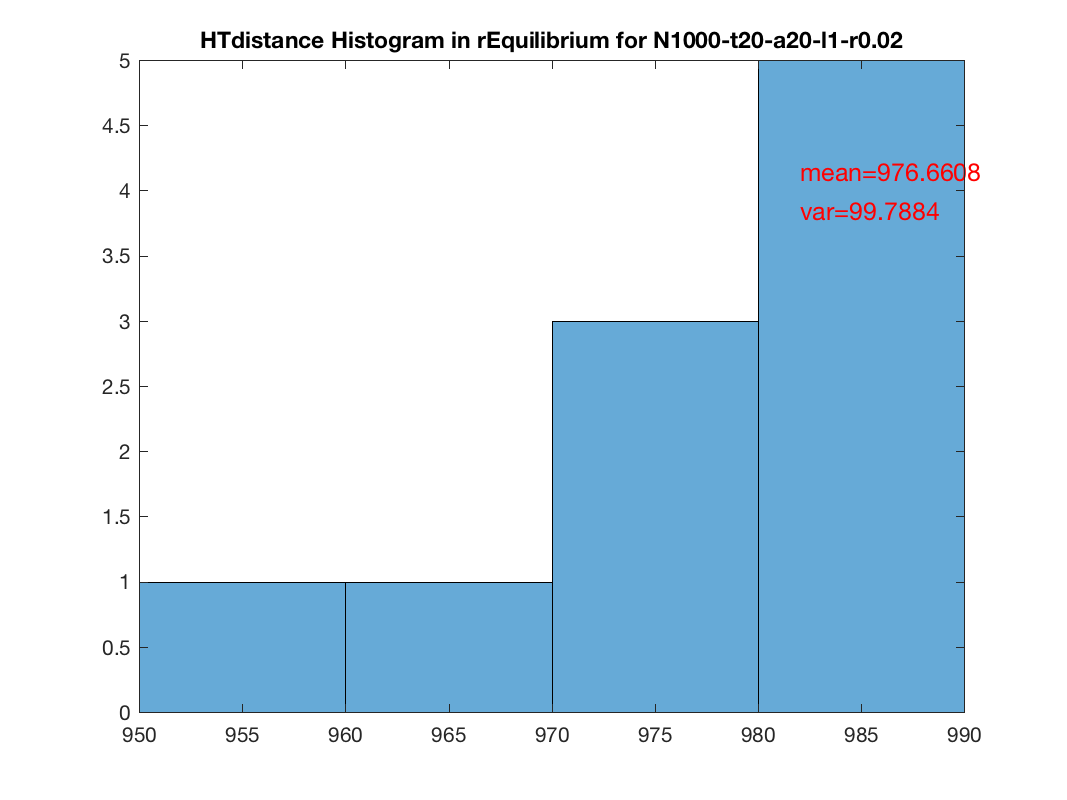
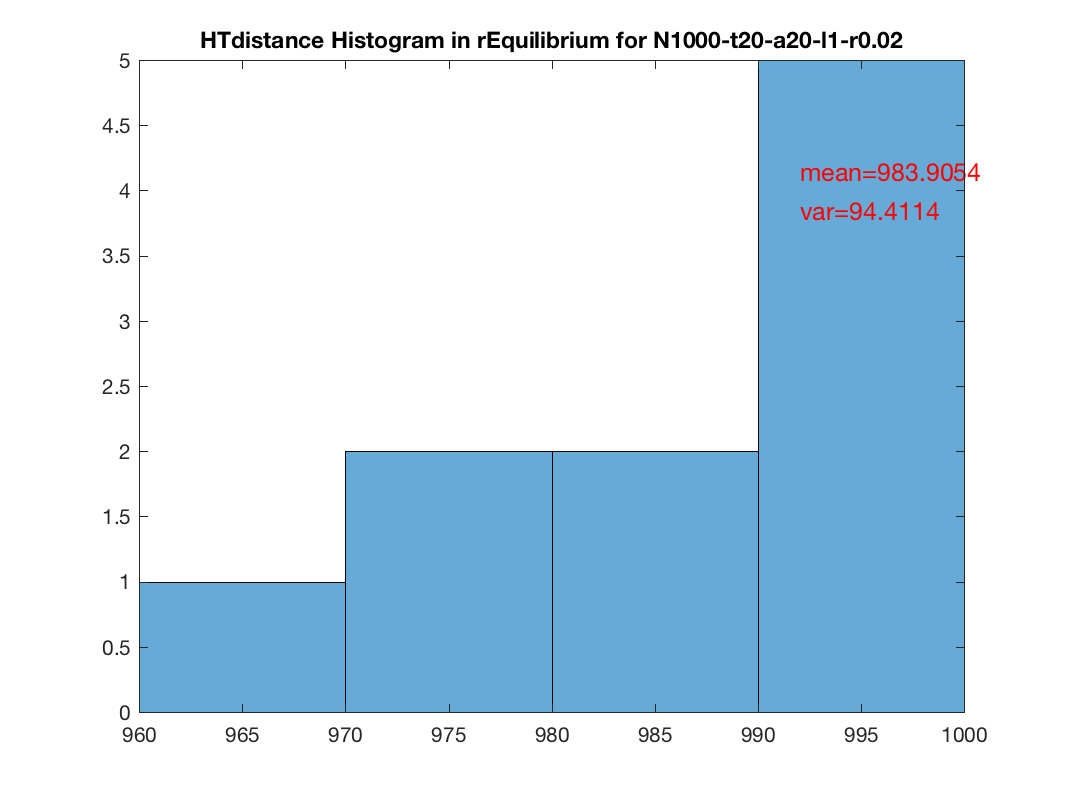
update code

diff --git a/lab_sim/BL_Protein_Rand_Walk_Ising_3D.m b/lab_sim/BL_Protein_Rand_Walk_Ising_3D.m
@@ -12,13 +12,13 @@ close all;
 
 rng(1234);                 % randomizer
 
-trial = 10;             % trials
-twist = 20;             % change of set state changes
+trial = 3;             % trials
+twist = 5;             % change of set state changes
 % node = 500;               % nodes of rigid polymer
-AutoT = 20;             % autocorrelation run time
+AutoT = 5;             % autocorrelation run time
 
 global pathN;
-pathN = '/Users/DoerLBH/Dropbox/git/QianLab_DNA_dynamics/lab_sim/data/test1-20160815/';
+pathN = '/Users/DoerLBH/Dropbox/git/QianLab_DNA_dynamics/lab_sim/data/test1-20160817/';
 % pathN = '/Users/sunnylinL/Dropbox/Sim/data/test-20160815/';
 system(['mkdir ' pathN]);
 
@@ -29,7 +29,7 @@ a = 20;                 % threshold to form loop
 Hc = 1.0;   % in unit of kT, energy level of cis rigid configuration
 Ht = 0.9;   % in unit of kT, energy level of trans rigid configuration
 
-parfor it = 10:10
+parfor it = 9:10
     
     node = it*100;
     
@@ -100,10 +100,10 @@ function tau = Cor2tau(Cor, fpathN, fname)
 
 n = length(Cor);
 x = (1:n).';
-X = [ones(n,1) x];
+X = [ones(n,1) x]
 y = log(Cor.');
-b = X\y;
-yCalc = b*X;
+b = X\y
+yCalc = X*b;
 
 fig1 = figure;
 scatter(x,y);
